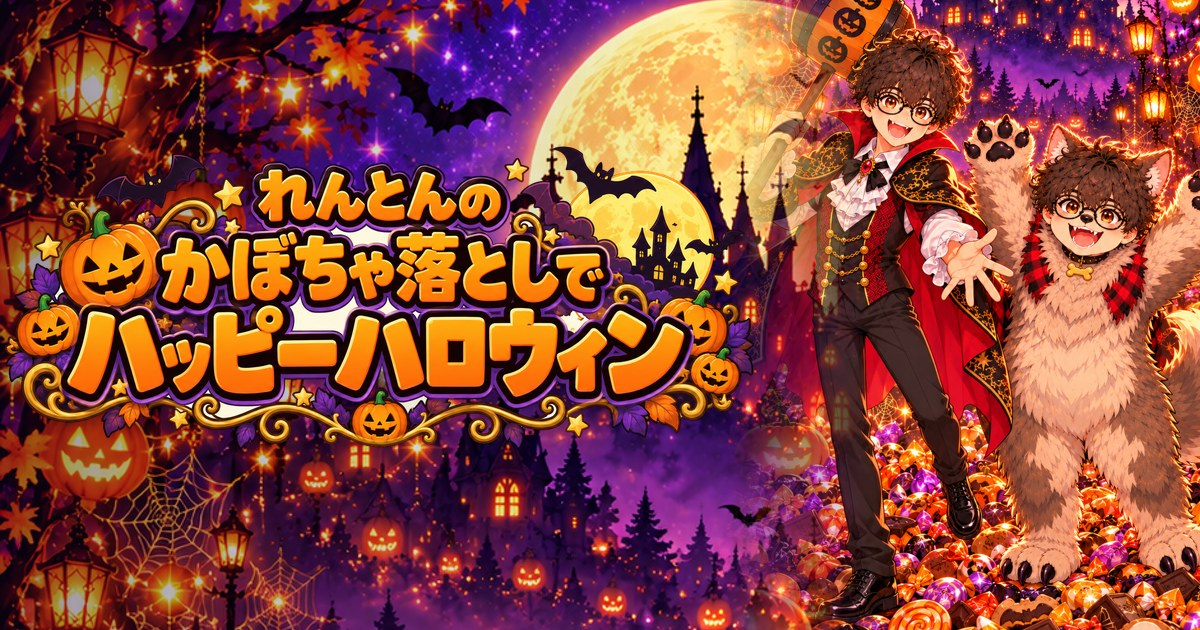
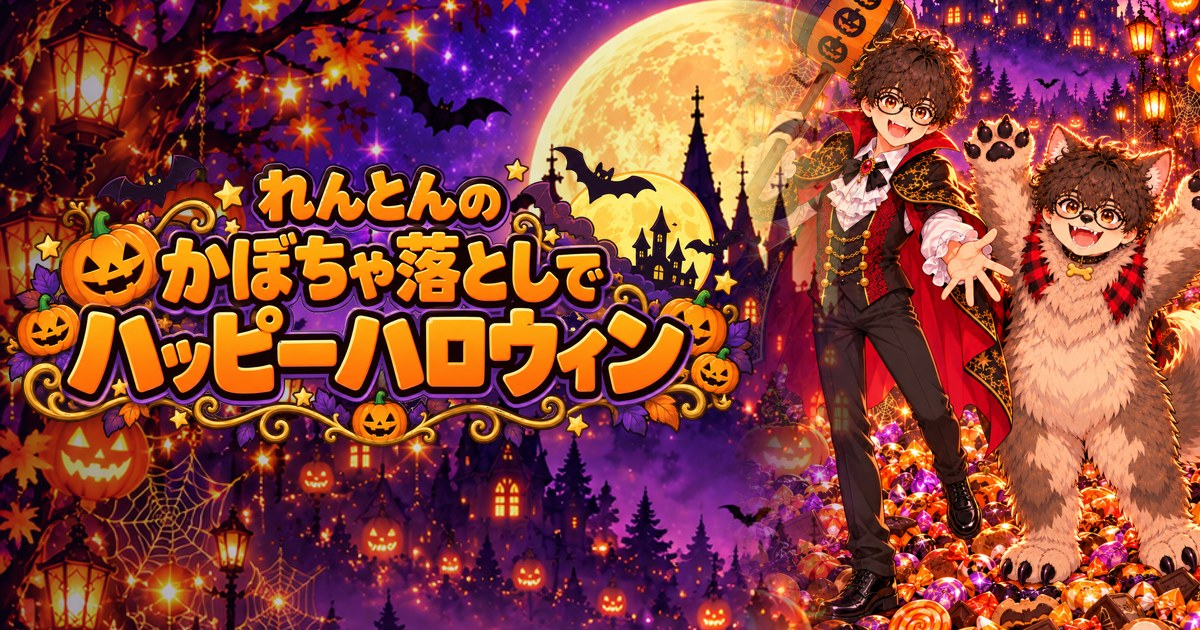
告知画像のロゴを透過版に・タイトルの継ぎ目をぼかす

diff --git a/index.html b/index.html
@@ -763,6 +763,10 @@ function render() {
   if (scene === 'play' || scene === 'intro') drawGauge();
   if (scene === 'title') {
     ctx.save(); ctx.translate(0, 70); drawCG(1); ctx.restore();   // タイトルも全クリア絵（つる指示 2026-10-05）。ロゴで顔が隠れないよう下げる
+    for (let i = 0; i < 12; i++) {                                 // 一枚絵の上端の継ぎ目を、背景へなめらかにぼかす
+      ctx.save(); ctx.beginPath(); ctx.rect(0, 60 + i * 5, W, 5); ctx.clip(); ctx.globalAlpha = 1 - i / 12; drawBG(); ctx.restore();
+    }
+    ctx.save(); ctx.beginPath(); ctx.rect(0, 0, W, 60); ctx.clip(); drawBG(); ctx.restore();
     drawLogo(150);
     if (Math.floor((T - sceneT) * 2) % 2 === 0) txt(TXT.tapStart, W / 2, 776, 26, '#fff', 'center', 6);   // 1秒周期で点滅
     ctx.globalAlpha = .6; txt(TXT.soundNote, W - 14, H - 14, 13, '#fff', 'right', 3, 700); ctx.globalAlpha = 1;
